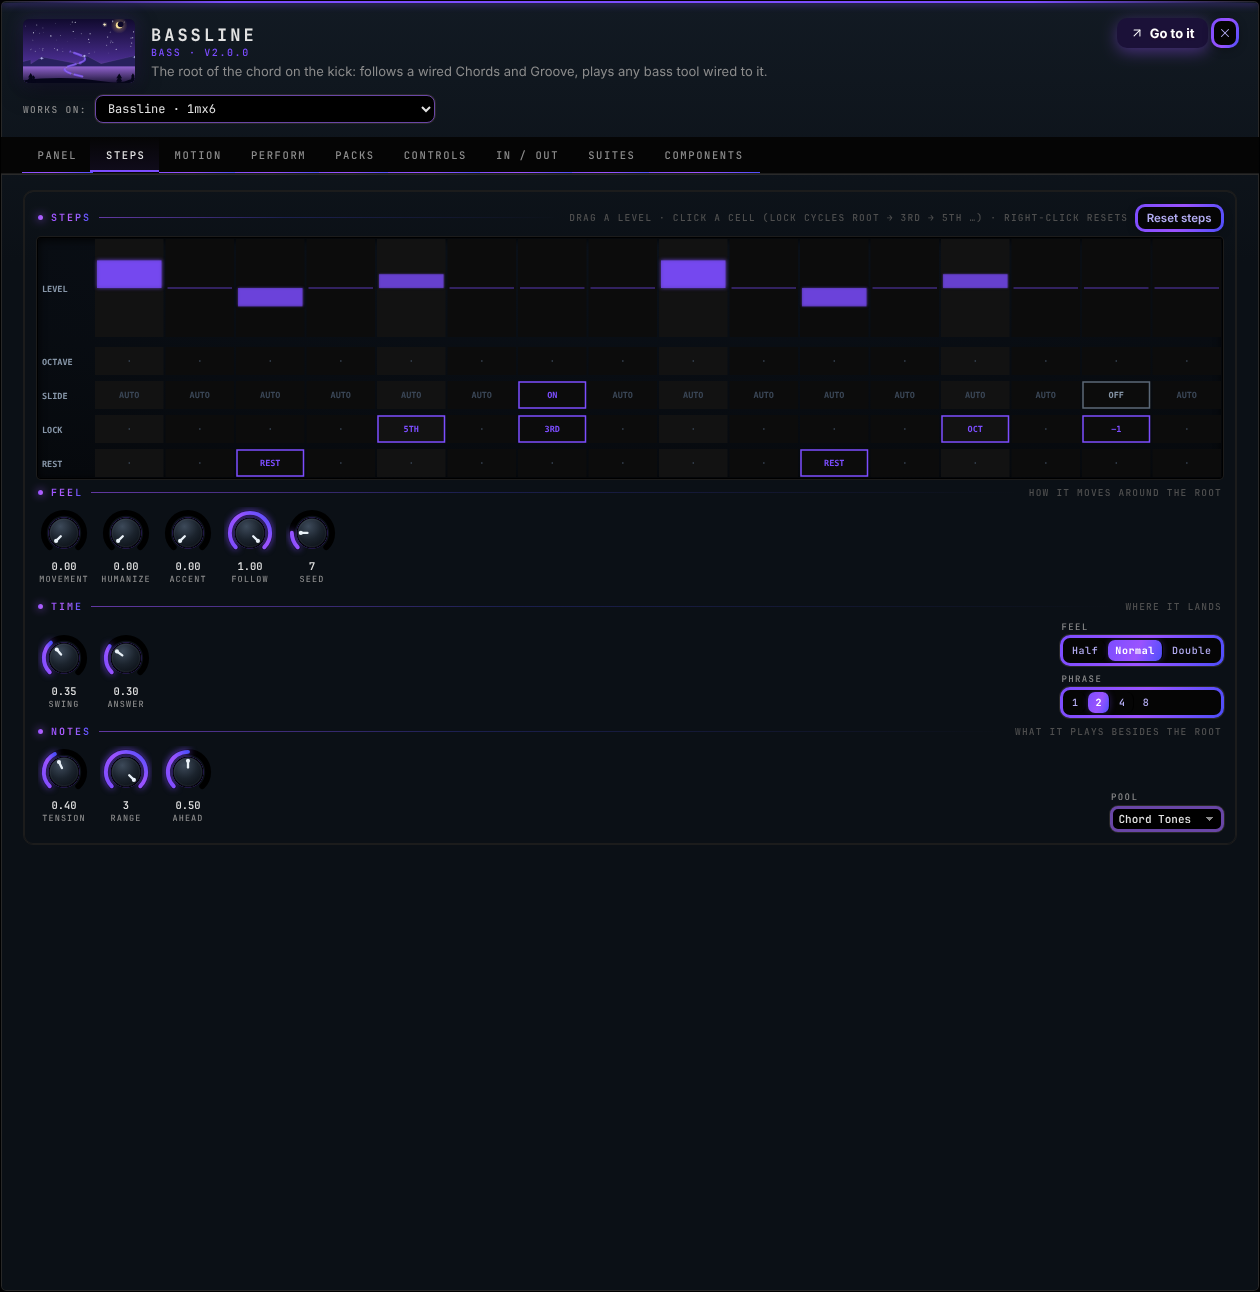
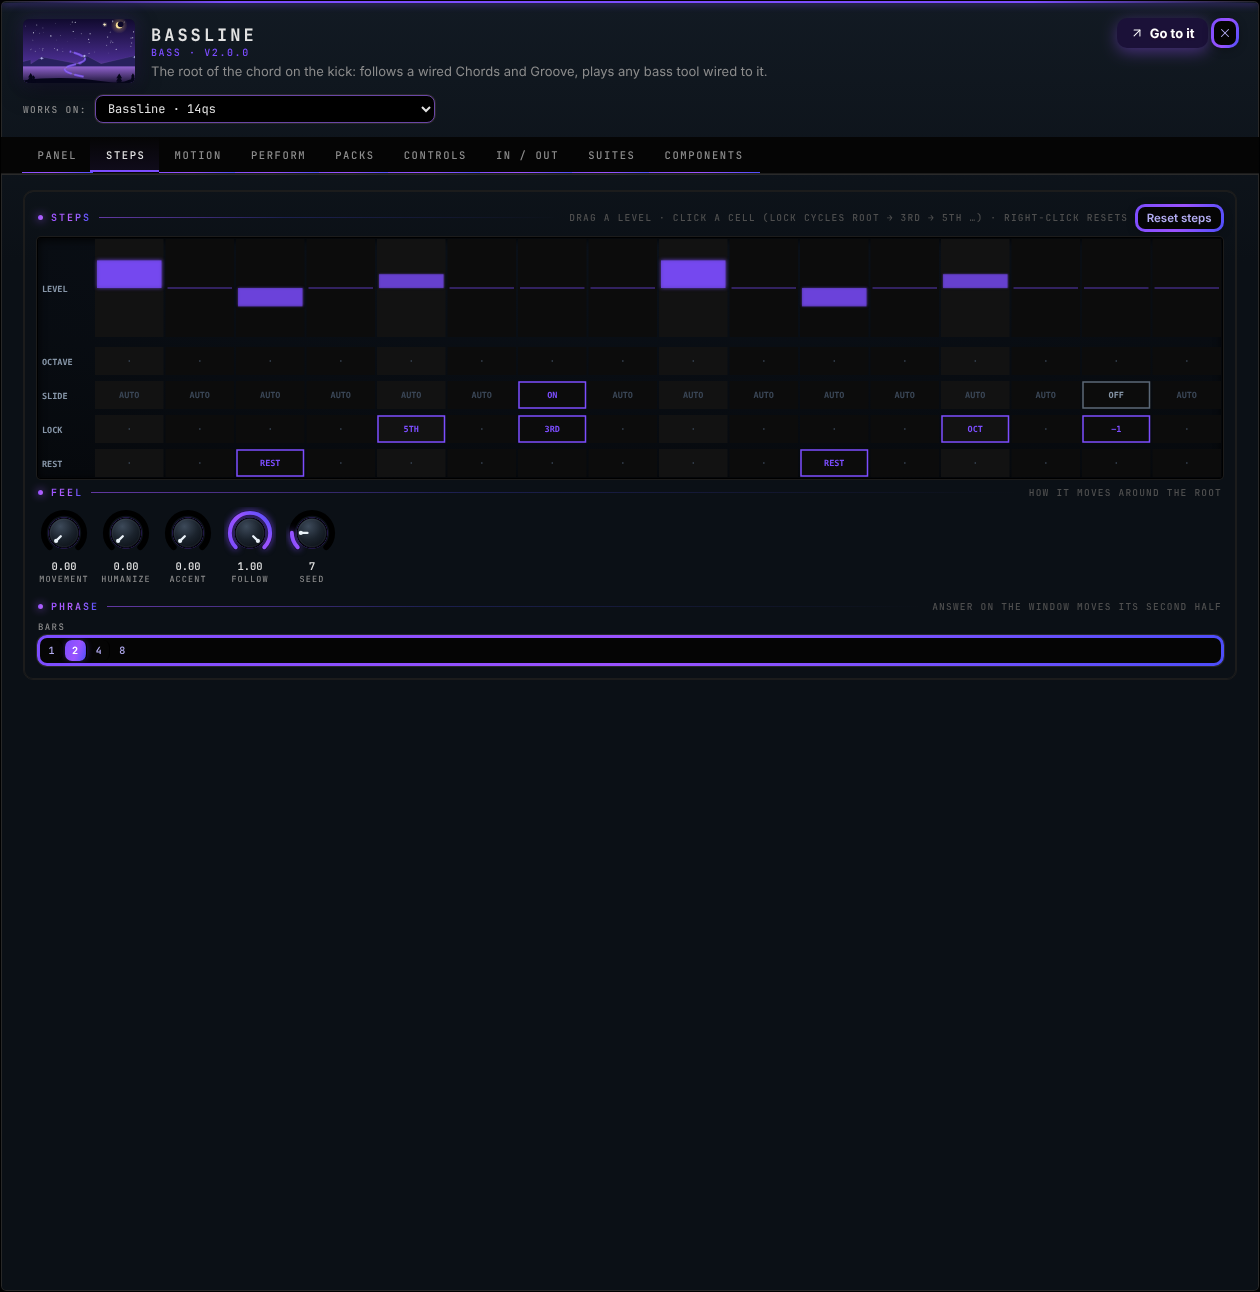
Bassline 2.0: Time · Pitch on the window, every knob automates; numerals keep their case
The window gains Own BPM, Swing, Answer, Pitch (transpose in scale steps
or semitones), Tension, Range, Ahead; Speed, Feel, Pool, Pitch in.
Speed and Own BPM gain knob inputs on every music tool. Title case kept
numerals in sequence (i-VI-III-VII) as written; P184 guards it.

Claude-Session: https://claude.ai/code/session_0143r3SNNw34KFGp8x897eiC

Changed region(s): [[0.7119, 0.4644, 0.9905, 0.5573], [0.031, 0.4644, 0.1548, 0.6502], [0.8667, 0.6192, 0.9905, 0.6502]]

diff --git a/tools/music/tools/bass/bass-gen/bass-gen.engine.js b/tools/music/tools/bass/bass-gen/bass-gen.engine.js
@@ -36,7 +36,7 @@
   OrganismFactory.define({
     id: 'eravos.bass-gen', domain: 'music', version: '2.0.0', perform: true, label: 'Bassline', icon: '🎸', accent: '#7c4dff',
     category: 'Bass', blurb: 'The root of the chord on the kick: follows a wired Chords and Groove, plays any bass tool wired to it.',
-    size: { w: 600, h: 440 }, minSize: { w: 440, h: 320 },
+    size: { w: 600, h: 640 }, minSize: { w: 440, h: 360 },
     permissions: ['audio_out', 'bus_publish', 'bus_subscribe', 'registry_read'],   // audio_out: its mod input is an audio-rate port
     provides: ['capability.generation', 'capability.note_out'],
     hooks: [
@@ -65,6 +65,10 @@
       { key: 'swing', type: 'number', default: 0, min: 0, max: 1, step: 0.01, label: 'Swing', group: 'TIME', hint: 'the 16ths between the 8ths land late (up to a triplet feel)' },
       { key: 'phrase', type: 'enum', options: [1, 2, 4, 8], default: 2, label: 'Phrase', group: 'TIME', hint: 'bars in a phrase: Answer moves the notes of its second half' },
       { key: 'answer', type: 'number', default: 0, min: 0, max: 1, step: 0.01, label: 'Answer', group: 'TIME', hint: 'the second half of each phrase answers the first: the same rhythm, its notes moved up to the third or fifth' },
+      // 2.0 PITCH (his words, 2026-11-13: "Tempo. Pitch need more automation. Bpm."): the whole line moved — in the key's steps (stays in key) or
+      // in semitones; automatable like every knob (its knob.transpose input: an LFO, an Automation lane, the XY Pad move it while it plays)
+      { key: 'transpose', type: 'integer', default: 0, min: -12, max: 12, label: 'Pitch', group: 'PITCH', hint: 'transpose — moves the whole line: in the key’s steps (it stays in key) or in semitones — automate it for a moving bass' },
+      { key: 'transposeIn', type: 'enum', options: ['scale steps', 'semitones'], default: 'scale steps', label: 'Transpose in', group: 'PITCH' },
       // 2.0 NOTES — its own voicing, the way Chords has Voicing and Tension
       { key: 'pool', type: 'enum', options: POOLS, default: 'root', label: 'Pool', group: 'NOTES', hint: 'what it may play besides the root: the fifth, the octave, the chord’s tones, the scale, or a walk toward the next chord' },
       { key: 'tension', type: 'number', default: 0, min: 0, max: 1, step: 0.01, label: 'Tension', group: 'NOTES', hint: 'how often it leaves the root for the notes above (the first of the bar stays the root)' },
@@ -118,7 +122,8 @@
         if (!ghost && step !== 0 && ans && ph > 1 && (bar % ph) >= ph / 2 && rnd(bar % (ph / 2), step, 12) < ans) deg += rnd(bar % (ph / 2), step, 13) < 0.5 ? 2 : 4;
         if (nextRoot !== undefined) deg = nextRoot;   // 2.0 anticipation: the next chord's root, early
         if (St.lock[step]) deg = degree(bar) + LOCK[St.lock[step]];   // 2.0 a locked step plays its lock
-        let note = MT.degreeToMidi(deg, P.get('octave') + up + St.oct[step], k.root, k.scale);
+        const tp = Math.round(P.get('transpose') || 0), steps = P.get('transposeIn') !== 'semitones';
+        let note = MT.degreeToMidi(deg + (steps ? tp : 0), P.get('octave') + up + St.oct[step], k.root, k.scale) + (steps ? 0 : tp);
         const floor = MT.degreeToMidi(0, P.get('octave'), k.root, k.scale), span = P.get('span'); while (note >= floor + span * 12 + 12) note -= 12;   // 2.0 Range
         let dur = stepDur * P.get('length') * (e > 0.6 ? 0.65 : 1), vel = 0.7 + 0.3 * e, tt = t;
         const acc = P.get('accent'), hum = P.get('humanize');

diff --git a/tools/music/tools/bass/bass-gen/bass-gen.ui.js b/tools/music/tools/bass/bass-gen/bass-gen.ui.js
@@ -58,6 +58,11 @@ OrganismFactory.reg('eravos.bass-gen', function (view) {
         h('div', { class: 'gg-knobs' }, [ctl('energy', { big: true, size: 64 }).el, ctl('length', { size: 44 }).el, ctl('octave', { size: 44 }).el, ctl('slides', { size: 44 }).el, ctl('ghosts', { size: 44 }).el, ctl('jumps', { size: 44 }).el]),
         h('div', { class: 'gg-strips' }, [strip('progression', 'Own chords'), strip('chordBars', 'Bars / chord')]),
       ])]),
+    // 2.0 on the window (his words: "It looks the same. Tempo. Pitch need more automation. Bpm."): its own time and its pitch, one compact
+    // section — the knobs in a row, the four choices side by side — every knob automates (its knob.<key> input)
+    h('section', { class: 'gg-sec' }, [head('Time · Pitch', [h('span', { class: 'mo-count', text: 'EVERY KNOB AUTOMATES' })]),
+      h('div', { class: 'gg-knobs' }, ['tempoBpm', 'swing', 'answer', 'transpose', 'tension', 'span', 'anticipate'].map(k => cfg(k) && ctl(k, { size: 40 }).el).filter(Boolean)),
+      h('div', { class: 'org-row', style: { gap: '8px 14px', flexWrap: 'wrap', alignItems: 'flex-end' } }, [strip('tempoX', 'Speed'), strip('feel', 'Feel'), strip('pool', 'Pool'), strip('transposeIn', 'Pitch in')])]),
     h('div', { class: 'gg-hint', text: 'WIRE A CHORDS’ CHORD OUT AND A GROOVE’S STEP OUT IN · ITS NOTE OUT INTO A BASS (REESE, WOBBLE, ACID)' }),
   ]);
 
@@ -106,10 +111,8 @@ OrganismFactory.reg('eravos.bass-gen', function (view) {
     head('Steps', [h('span', { class: 'mo-count', text: 'DRAG A LEVEL · CLICK A CELL (LOCK CYCLES ROOT → 3RD → 5TH …) · RIGHT-CLICK RESETS' }), reset]), lanes,
     head('Feel', [h('span', { class: 'mo-count', text: 'HOW IT MOVES AROUND THE ROOT' })]),
     h('div', { class: 'gg-knobs' }, [ctl('move', { size: 52 }).el, ctl('humanize', { size: 52 }).el, ctl('accent', { size: 52 }).el, ctl('follow', { size: 52 }).el, ctl('seed', { size: 52 }).el]),
-    head('Time', [h('span', { class: 'mo-count', text: 'WHERE IT LANDS' })]),
-    h('div', { class: 'gg-bank' }, [h('div', { class: 'gg-knobs' }, [ctl('swing', { size: 52 }).el, ctl('answer', { size: 52 }).el]), h('div', { class: 'gg-strips' }, [strip('feel', 'Feel'), strip('phrase', 'Phrase')])]),
-    head('Notes', [h('span', { class: 'mo-count', text: 'WHAT IT PLAYS BESIDES THE ROOT' })]),
-    h('div', { class: 'gg-bank' }, [h('div', { class: 'gg-knobs' }, [ctl('tension', { size: 52 }).el, ctl('span', { size: 52 }).el, ctl('anticipate', { size: 52 }).el]), h('div', { class: 'gg-strips' }, [strip('pool', 'Pool')])]),
+    head('Phrase', [h('span', { class: 'mo-count', text: 'ANSWER ON THE WINDOW MOVES ITS SECOND HALF' })]),
+    h('div', { class: 'gg-strips' }, [strip('phrase', 'Bars')]),
   ]);
 
   view.root.append(play);

diff --git a/tools/music/tools/bass/bass-gen/bass-gen.test.js b/tools/music/tools/bass/bass-gen/bass-gen.test.js
@@ -111,6 +111,17 @@ describe('Bassline 2.0 · time, notes, locks and rests (3.186)', () => {
     const early = a.notes.filter(n => stepOf(n) === 14); assert.gt(early.length, 0, 'notes an 8th early');
     early.forEach(n => { const next = a.notes.find(x => barOf(x) === barOf(n) + 1 && stepOf(x) === 0); if (next) assert.equal(n.note % 12, next.note % 12, 'the next chord’s root'); });
   });
+  it('pitch: Transpose moves the line — in the key\u2019s steps (stays in key) or in semitones (exactly); a change while it plays reaches the next notes', () => {
+    const a = rig(); a.play(2); const k = key(a.c);
+    const s = rig({ transpose: 2 }); s.play(2); s.notes.forEach((n, i) => { assert.ok(MusicTheory.inScale(n.note, k.root, k.scale), 'in key'); assert.gt(n.note, a.notes[i].note); });
+    const t = rig({ transpose: 3, transposeIn: 'semitones' }); t.play(2); t.notes.forEach((n, i) => assert.equal(n.note, a.notes[i].note + 3));
+    const live = rig(); live.U.T.renderTicks(0, 16, 0.05); const before = live.notes.length; live.c.params.set('transpose', 7); live.c.params.set('transposeIn', 'semitones'); live.U.T.renderTicks(16, 32, 0.05);
+    live.notes.slice(before).forEach((n, i) => assert.equal(n.note, a.notes[before + i].note + 7, 'the next bar moved'));
+  });
+  it('automation: Transpose, Swing, Tension, Range, Ahead and the tool\u2019s Speed and BPM each have a modulation input (an LFO, a lane, the XY Pad)', () => {
+    const d = OrganismFactory.def('eravos.bass-gen'), ins = new Set((d.hooks || []).map(h => h.hook_id));
+    ['transpose', 'swing', 'tension', 'span', 'anticipate', 'answer', 'tempoBpm', 'tempoX', 'feel', 'pool'].forEach(k => assert.ok(ins.has('knob.' + k), k + ' can be automated'));
+  });
   it('answer: the second half of each phrase moves its notes; the first half stays', () => {
     const a = rig(); a.play(4); const x = rig({ answer: 1, phrase: 2 }); x.play(4);
     x.notes.forEach((n, i) => { if (barOf(n) % 2 === 0 || stepOf(n) === 0) assert.equal(n.note, a.notes[i].note); });

diff --git a/tools/music/domain.js b/tools/music/domain.js
@@ -25,6 +25,11 @@
       { key: 'tempoX', type: 'enum', options: ['¼', '½', '¾', '1', '1½', '2', '3', '4', 'own'], default: '1', label: 'Speed', group: 'TEMPO', element: 'own:tempo', hint: 'this tool’s speed against the song: ½ = half time, 2 = double time, own = its own BPM below', settingsOnly: true },
       { key: 'tempoBpm', type: 'number', default: 120, min: 30, max: 300, step: 0.5, unit: 'BPM', label: 'Own BPM', group: 'TEMPO', element: 'own:tempo', hint: 'used when Speed is “own” — stays locked to the song’s start', settingsOnly: true },
     ]);
+    // 3.186 (his words, 2026-11-13: "Tempo. Pitch need more automation. Bpm."): Speed and Own BPM automate like every knob. The SDK gives each
+    // knob its input when a tool is defined, before this hook adds these two — so they get theirs here, the same way (knob.<key>, off the rail)
+    const STD = global.OrganismSDK && global.OrganismSDK.STD, audio = (desc.permissions || []).some(x => x === 'audio_out' || x === 'audio_in');
+    if (STD && STD.mod_in && audio && Array.isArray(desc._knobInputs)) ['tempoX', 'tempoBpm'].forEach(k => { if ((desc.hooks || []).some(h => h.hook_id === 'knob.' + k)) return;
+      desc._knobInputs.push(k); desc.hooks.push(Object.assign(STD.mod_in('knob.' + k, 'knob.' + k), { rail: false, knob: k, intent: 'move ' + (k === 'tempoX' ? 'Speed' : 'Own BPM') })); });
   });
   F.onDefine((desc) => {
     // v10 plugin JSON presets → factory presets (eravos.v10-conversion: "each FX organism seeds factory presets from its file")

diff --git a/tests/p184-option-text.test.js b/tests/p184-option-text.test.js
@@ -1,0 +1,15 @@
+/* P184 — options shown in title case (his words, 2026-11-13: "why lowercase all the time also? like porffesssional anbd production grade"),
+ * values kept as stored. Chord progressions in numerals keep their case (lowercase = minor: i-VI-III-VII, i-iv-v-i) — found on Bassline's
+ * Own chords after 3.184; acronyms come from the domain (SVF, DnB); small joining words stay small mid-phrase. */
+window.__phase = 'P184';
+describe('P184 option text — title case for words, numerals and acronyms as they mean', () => {
+  it('shown as a title; progressions, acronyms and symbols as they mean', () => {
+    const T = UIKit.optionText, cases = { 'tine': 'Tine', 'up-down': 'Up-Down', 'sample and hold': 'Sample and Hold', 'svf 24': 'SVF 24', 'dnb roll': 'DnB Roll',
+      'juno I': 'Juno I', 'I+II': 'I+II', 'i-VI-III-VII': 'i-VI-III-VII', 'i-iv-v-i': 'i-iv-v-i', 'vi-IV-I-V': 'vi-IV-I-V', 'ii-V-I-I': 'ii-V-I-I', '1/16t': '1/16t', 'off': 'Off' };
+    Object.entries(cases).forEach(([v, want]) => assert.equal(T(v), want, JSON.stringify(v)));
+  });
+  it('a setting keeps its stored value: Bassline’s Own chords shows i-VI-III-VII and stores i-VI-III-VII', () => {
+    const d = OrganismFactory.def('eravos.bass-gen'), c = d.config.find(x => x.key === 'progression'); assert.ok(c.options.includes('i-VI-III-VII'));
+    assert.equal(UIKit.optionText('i-VI-III-VII'), 'i-VI-III-VII');
+  });
+});

diff --git a/canvas/runtime/ui-kit.js b/canvas/runtime/ui-kit.js
@@ -372,7 +372,10 @@
   function optionText(v) {
     if (typeof v !== 'string') return String(v);
     let first = true;   // title case: small joining words stay small after the first word (as in any title)
+    if (/^[ivxIVX]+([-+/\s]+[ivxIVX]+)+$/.test(v)) return v;   // numerals in sequence (i-iv-v-i): their case is their meaning
+    const roman = /(^|[^A-Za-z])[IVX]+([^A-Za-z]|$)/.test(v);   // an uppercase numeral beside lowercase ones (i-VI-III-VII): the case is the meaning — kept
     return v.split(/(\s+|-|\+|\/)/).map(t => { if (!t || /^(\s+|-|\+|\/)$/.test(t)) return t; const f = first; first = false;
+      if (roman && /^[ivx]+$/.test(t)) return t;
       if (WORDS[t] !== undefined) return WORDS[t]; if (!f && /^(and|of|for|in|on|or|to|the|a|an|at|by)$/.test(t)) return t; return /^[a-z][a-z']*$/.test(t) ? t[0].toUpperCase() + t.slice(1) : t; }).join('');
   }
   // ---------------------------------------------------------------- param panel bound to an organism view

diff --git a/tests/run.html b/tests/run.html
@@ -52,6 +52,7 @@
 <script src="p175-field-map-edits.test.js"></script>
 <script src="p176-field-tool-specific.test.js"></script>
 <script src="p183-elements.test.js"></script>
+<script src="p184-option-text.test.js"></script>
 <script src="p154-workshop-notes.test.js"></script>
 <script src="p156-workshop-shape-3d.test.js"></script>
 <script src="p157-workshop-hear-knobs.test.js"></script>

diff --git a/PROGRESS.md b/PROGRESS.md
@@ -7,9 +7,14 @@ His words: "I love the bassline, needs more depth and control. like tempo and th
 The bassline tool. Way more depth. I like that tool. A lot." (15:58:04Z)
 - engine 2.0.0 (bass-gen.spec ADDENDUM 2026-11-13 (2)): TIME feel (half / normal / double), swing, phrase + answer · NOTES a pool (root, + fifth,
   + octave, chord tones, scale, walking) left by tension, range, ahead (anticipation) · STEPS lock and rest lanes. Every one neutral by default.
-- The window is unchanged; TIME, NOTES and the two lanes are on its page's Steps tab, beside FEEL (power without overwhelm).
-- Proof: bass-gen.test.js 24/24 (16 of 1.1 unchanged + 8 for 2.0: defaults = 1.1 bar for bar, each control does what it says); P132 3/3, P48
-  17/17; design check no worse. Shown first: docs/previews/bassline-2-window.png, bassline-2-steps.png.
+- Then his "It looks the same. Tempo. Pitch need more automation. Bpm.": the window gains TIME · PITCH — Own BPM, Swing, Answer, Pitch
+  (transpose −12..12, in scale steps or semitones), Tension, Range, Ahead knobs; Speed, Feel, Pool, Pitch in strips. Every knob automates:
+  Speed and Own BPM now carry knob inputs too (tools/music/domain.js — every music tool). The lanes stay on the Steps tab (no duplicates).
+- Found on the way: title case (3.184) turned progressions like i-VI-III-VII into I-VI-III-VII (minor read as major) — numerals in sequence
+  keep their case (canvas/runtime/ui-kit.js); P184 guards it.
+- Proof: bass-gen.test.js 26/26 (16 of 1.1 unchanged + 10 for 2.0: defaults = 1.1 bar for bar, each control does what it says, pitch moves
+  live, every knob has an automation input); P184 2/2, P183 2/2, P132 3/3, P49 10/10, P48 17/17, boundary 10/10; design check no worse.
+  Shown first: docs/previews/bassline-2-window.png, bassline-2-steps.png.
 
 ## 3.185 The full suite run: six failures of mine found and fixed (2026-11-13)
 The full in-page suite (1,600 tests) on today's main: 10 failed. Each re-run on main and on main of 2026-11-10 to find whose they are.
